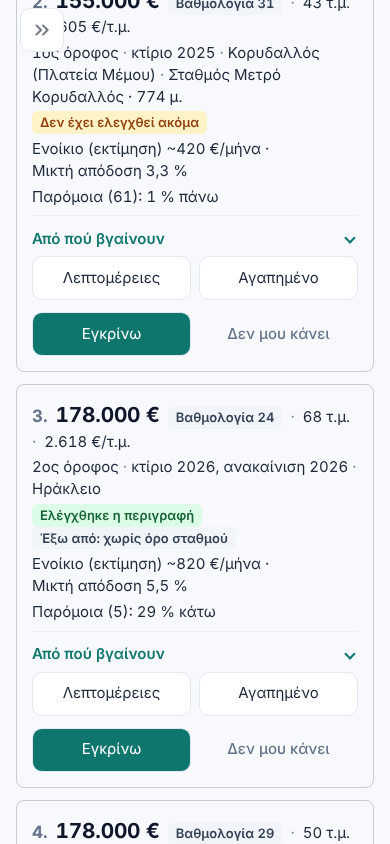
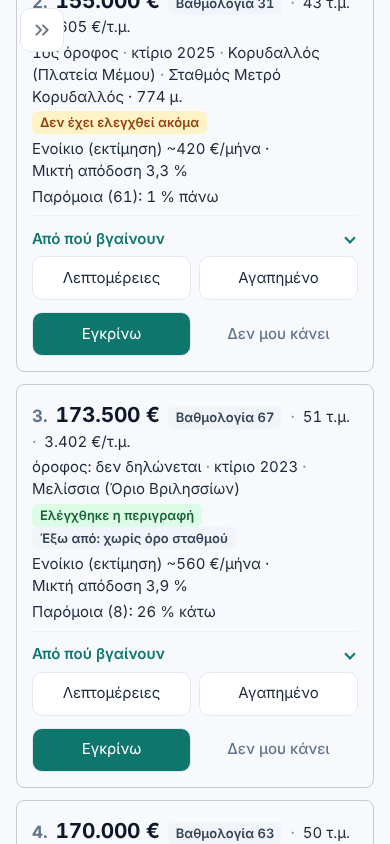
C7: one truth — order by the trust ladder, then the score; the goal breaks ties
Pick.sort_key = page read, real photos, buyer score, then the goal's rank_score. Rentals sort
by RentPick.score, value/freshness as the tie-break. «Πώς υπολογίζω» says so in one sentence.

Claude-Session: https://claude.ai/code/session_01RR7mnYpr89SwZHibQwXGdh

diff --git a/src/scout/picks.py b/src/scout/picks.py
@@ -9,8 +9,9 @@ negotiate — and writes one short line per number with its basis. When too litt
 
 Ranking by goal (the «Οδηγός» question «Τι σε νοιάζει πιο πολύ;»). Every listing gets four
 part scores, in points; ``rank_score`` = Σ ``GOAL_WEIGHTS[goal][part]`` × part. The sort is
-always: page read first, then >2 photos, then ``rank_score`` — a goal never lifts an unread
-page above a read one.
+always: page read first, then real photos (>2, not render/plan/site/stock), then the buyer
+score (``buyer_score``, the card's «Βαθμολογία»), then ``rank_score`` as the tie-break — the
+goal never lifts an unread page above a read one, nor a lower score above a higher one.
 
 =========  ===============================================================================
 part       points
@@ -254,10 +255,16 @@ class Pick:
         )
 
     def sort_key(self) -> tuple:
-        # A page we have read beats one we have not, whatever its yield; real photos beat
-        # "≤2 photos" (often a render or a logo); then the investor ranking. Photos the
-        # photo check classed as render/plan/site/stock sit below real or unchecked ones.
-        return (self.checked, not self.bad_photos, not self.few_photos, self.rank_score)
+        # The trust ladder first: a page we have read beats one we have not; real photos beat
+        # "≤2 photos" (often a render or a logo) and render/plan/site/stock. Then the buyer
+        # score (one truth with the card's «Βαθμολογία»); the goal's points break ties.
+        return (
+            self.checked,
+            not self.bad_photos,
+            not self.few_photos,
+            self.buyer_score,
+            self.rank_score,
+        )
 
 
 def _r(x: float, step: int) -> int:

diff --git a/src/scout/ui/rent_guide.py b/src/scout/ui/rent_guide.py
@@ -582,10 +582,10 @@ def _step4(r: dict) -> None:
 
 
 METHOD = f"""
-- **Σειρά**: πρώτα όσες έχουν το χαμηλότερο ενοίκιο ανά τ.μ. σε σχέση με τα παρόμοια, μετά οι
-  πιο πρόσφατες αγγελίες. Όσες είναι πάνω από {round(picks_rent.TOO_CHEAP * 100)} % κάτω από τα
-  παρόμοια πάνε μετά (συχνά δωμάτιο, λάθος τιμή ή αγγελία που δεν υπάρχει), όσες δεν έχουν
-  παρόμοια στο τέλος.
+- **Σειρά**: η Βαθμολογία (έως 70 για ενοίκιο ανά τ.μ. κάτω από τα παρόμοια, έως 30 για
+  πρόσφατη αγγελία)· στις ισοπαλίες το χαμηλότερο ενοίκιο ανά τ.μ. σε σχέση με τα παρόμοια. Όσες
+  είναι πάνω από {round(picks_rent.TOO_CHEAP * 100)} % κάτω από τα παρόμοια δεν παίρνουν πόντους
+  τιμής (συχνά δωμάτιο, λάθος τιμή ή αγγελία που δεν υπάρχει).
 - **Παρόμοια ενοίκια**: διάμεσο €/τ.μ. των άλλων ενεργών αγγελιών ενοικίασης στην ίδια γειτονιά
   (τουλάχιστον {picks_rent.MIN_COMPS}), αλλιώς στην ευρύτερη περιοχή.
 - **Ποσό**: ενοίκια έως {round(picks_rent.BUDGET_BAND * 100)} % πάνω από το ποσό σου.

diff --git a/src/scout/picks_rent.py b/src/scout/picks_rent.py
@@ -4,8 +4,8 @@ Input: rental dicts from ``queries.load_rent_listings()`` (contract C1: the sale
 ``price`` = monthly rent, plus ``rent_per_m2``, ``furnished``, ``available_from``,
 ``days_on_market`` / ``dom_basis`` / ``relisted_on``, ``is_fresh``, ``page_checked``).
 
-Ranking: value first — the rental's €/τ.μ. against the median €/τ.μ. of the OTHER active
-rentals in the same neighbourhood (at least ``MIN_COMPS``), else in the same area
+Ranking: the rent-value score (``RentPick.score``, below) first; the tie-break is value — the
+rental's €/τ.μ. against the median €/τ.μ. of the OTHER active rentals in the same neighbourhood (at least ``MIN_COMPS``), else in the same area
 (``area_insights.area_name``) — then freshness (fewer days on market first). A rent more than
 ``TOO_CHEAP`` under its comparables is a warning (often a room, a typo or a bait ad) and
 sorts after the ones that compare normally; rentals without comparables come last.
@@ -366,7 +366,7 @@ def find(
             answer, step, label = miss[0]
             p = replace(_build(d, index, budget_month), relaxed=label, tier=1)
             loose.setdefault((answer, step), []).append(p)
-    strict.sort(key=RentPick.sort_key)
+    strict.sort(key=lambda p: (-p.score, p.sort_key()))  # the score, then value/freshness
     out = strict
     if near and len(out) < picks.NEAR_MIN:  # only to fill a thin list
         # Each step's best NEAR_MIN by value, then all near matches by score, the smaller

diff --git a/tests/test_picks_more.py b/tests/test_picks_more.py
@@ -275,3 +275,24 @@ def test_owner_like_long_list_has_no_near_matches(published):
         listings, intel, rents, 250_000, max_age=None, near_rail=False, top=10**6, near=True
     )
     assert len(got) >= picks.NEAR_MIN and not any(p.relaxed for p in got)
+
+
+def test_order_is_trust_ladder_then_the_score_in_every_tier(published):
+    """One truth: within a tier and a trust step, a lower «Βαθμολογία» never ranks above a
+    higher one; the goal's points only break ties."""
+    listings, rents = published
+    intel = market_intel.build(listings)
+    for goal in picks.GOALS:
+        got = picks.find(
+            listings, intel, rents, 160_000, max_age=10, near_rail=True, goal=goal,
+            top=10**6, near=True,
+        )  # fmt: skip
+        for tier in (0, 2):  # near (1) is per-step first, then ranked the same way
+            rows = [p for p in got if p.tier == tier]
+            keys = [p.sort_key()[:4] for p in rows]
+            assert keys == sorted(keys, reverse=True)
+
+
+def test_rent_order_is_the_score():
+    got = picks_rent.find(RENTALS, 800, bedrooms=2, top=10**6)
+    assert [p.score for p in got] == sorted((p.score for p in got), reverse=True)

diff --git a/src/scout/ui/guide.py b/src/scout/ui/guide.py
@@ -654,8 +654,8 @@ def _rent_rows() -> list[dict]:
 
 
 METHOD = """
-- **Σειρά**: πρώτα όσες ελέγξαμε τη σελίδα, μετά όσες έχουν πάνω από 2 φωτογραφίες, μετά οι
-  πόντοι του στόχου σου. Ο στόχος δεν ανεβάζει ποτέ μη ελεγμένη πάνω από ελεγμένη.
+- **Σειρά**: πρώτα οι ελεγμένες με αληθινές φωτογραφίες, μετά η Βαθμολογία· ο στόχος σου
+  κρίνει τις ισοπαλίες και την πρόταση περιοχής.
 - **Πόντοι**: απόδοση = 1000 × μικτή απόδοση (4,5 % δίνει 45)· τιμή = σε σχέση με τα παρόμοια
   (−6 έως +10), +3 αν τελείωσε πριν από φέτος, +2 αν είναι 90+ μέρες στην αγορά, −20 αν είναι
   πάνω από 35 % φθηνότερο από τα παρόμοια· σιγουριά = 6 για καθένα από: ελεγμένη σελίδα,
